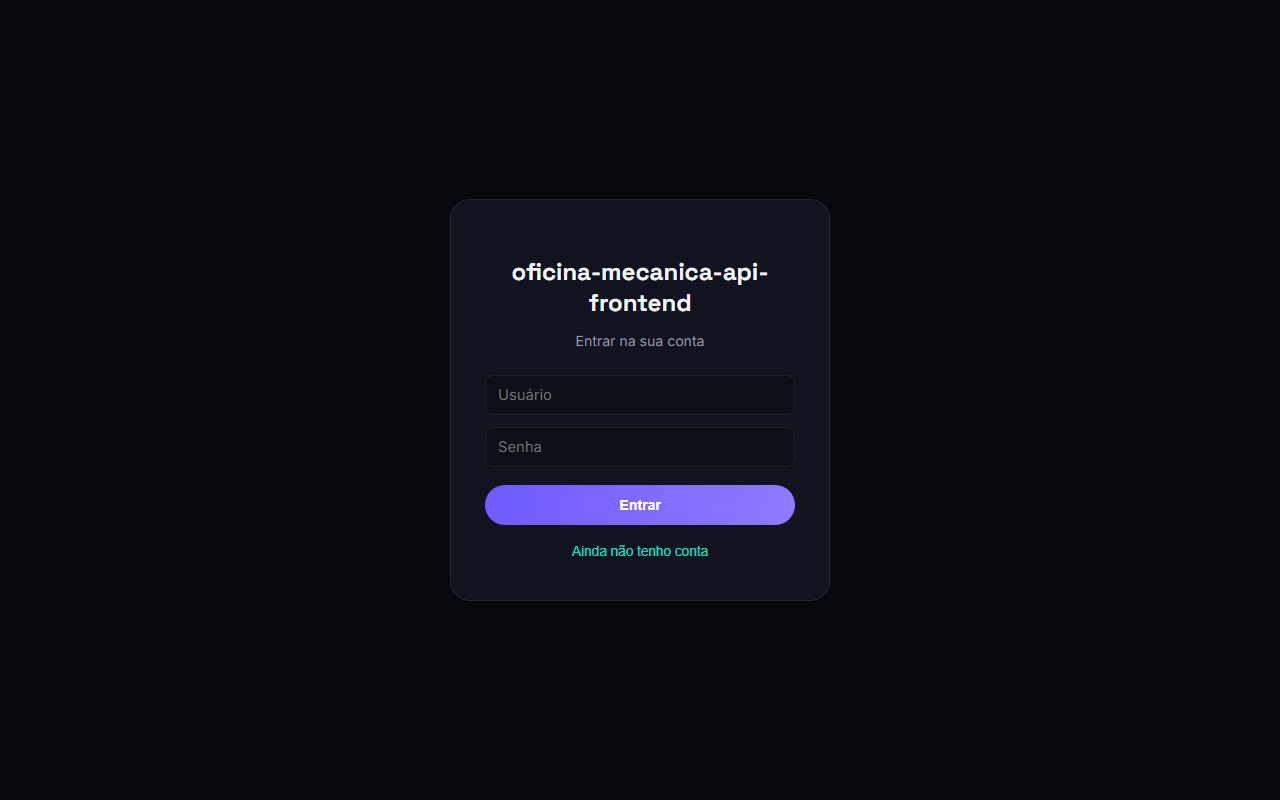
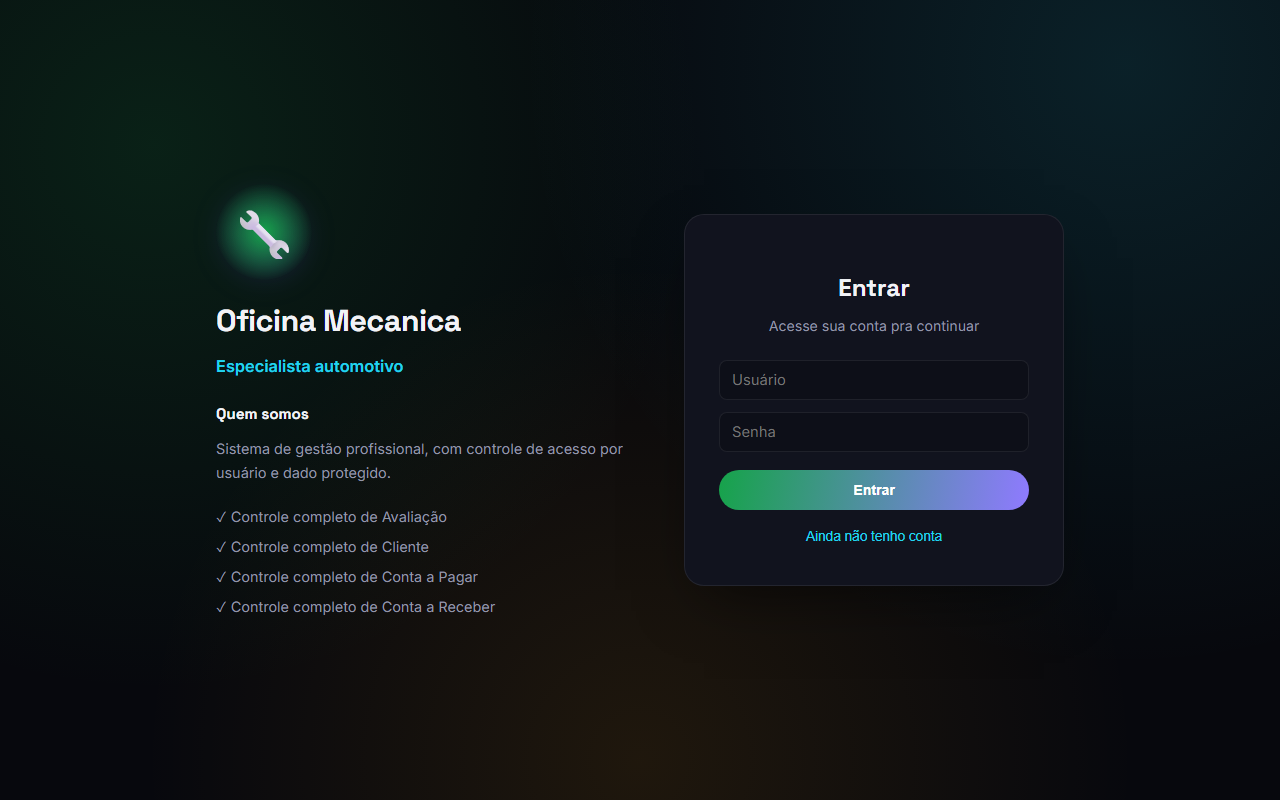
fix: whatsapp real (era numero placeholder falso)

diff --git a/src/App.jsx b/src/App.jsx
@@ -127,7 +127,7 @@ export default function App() {
           <TiltCard><div className="browser-frame"><div className="bar"><span></span><span></span><span></span></div><img src={`${import.meta.env.BASE_URL}screenshots/https-rede-barbearias-api-frontend-onrender-com.png`} alt="Barbearia" loading="lazy" /></div><span className="proj-badge"><span className="dot"></span>No ar</span><h3>Barbearia</h3><p>Multi-unidade: agenda visual por barbeiro, comissão automática e dashboard de faturamento.</p><a className="proj-link" href="https://rede-barbearias-api-frontend.onrender.com" target="_blank" rel="noreferrer">Ver sistema no ar →</a></TiltCard>
         </div>
       </div>
-      <a className="whatsapp-fab" href="https://wa.me/[phone redacted]" target="_blank" rel="noreferrer">💬</a>
+      <a className="whatsapp-fab" href="https://wa.me/[phone redacted]" target="_blank" rel="noreferrer">💬</a>
     </div>
   );
 }